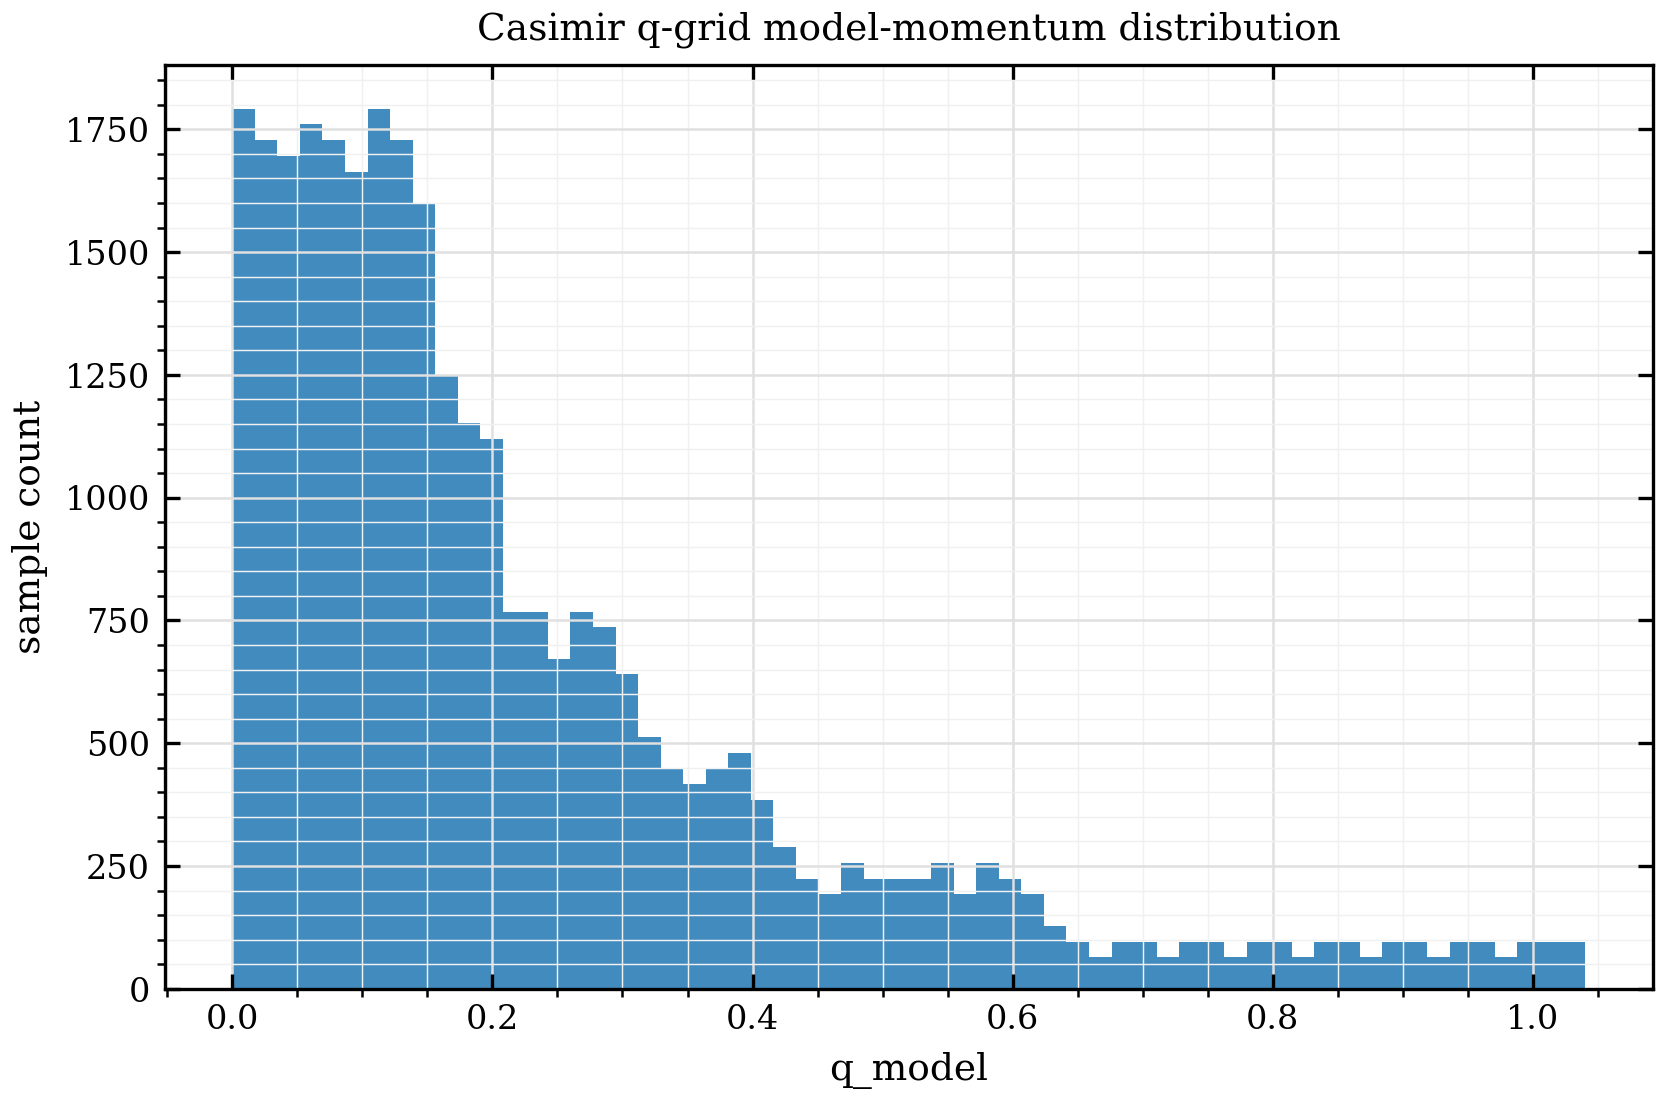
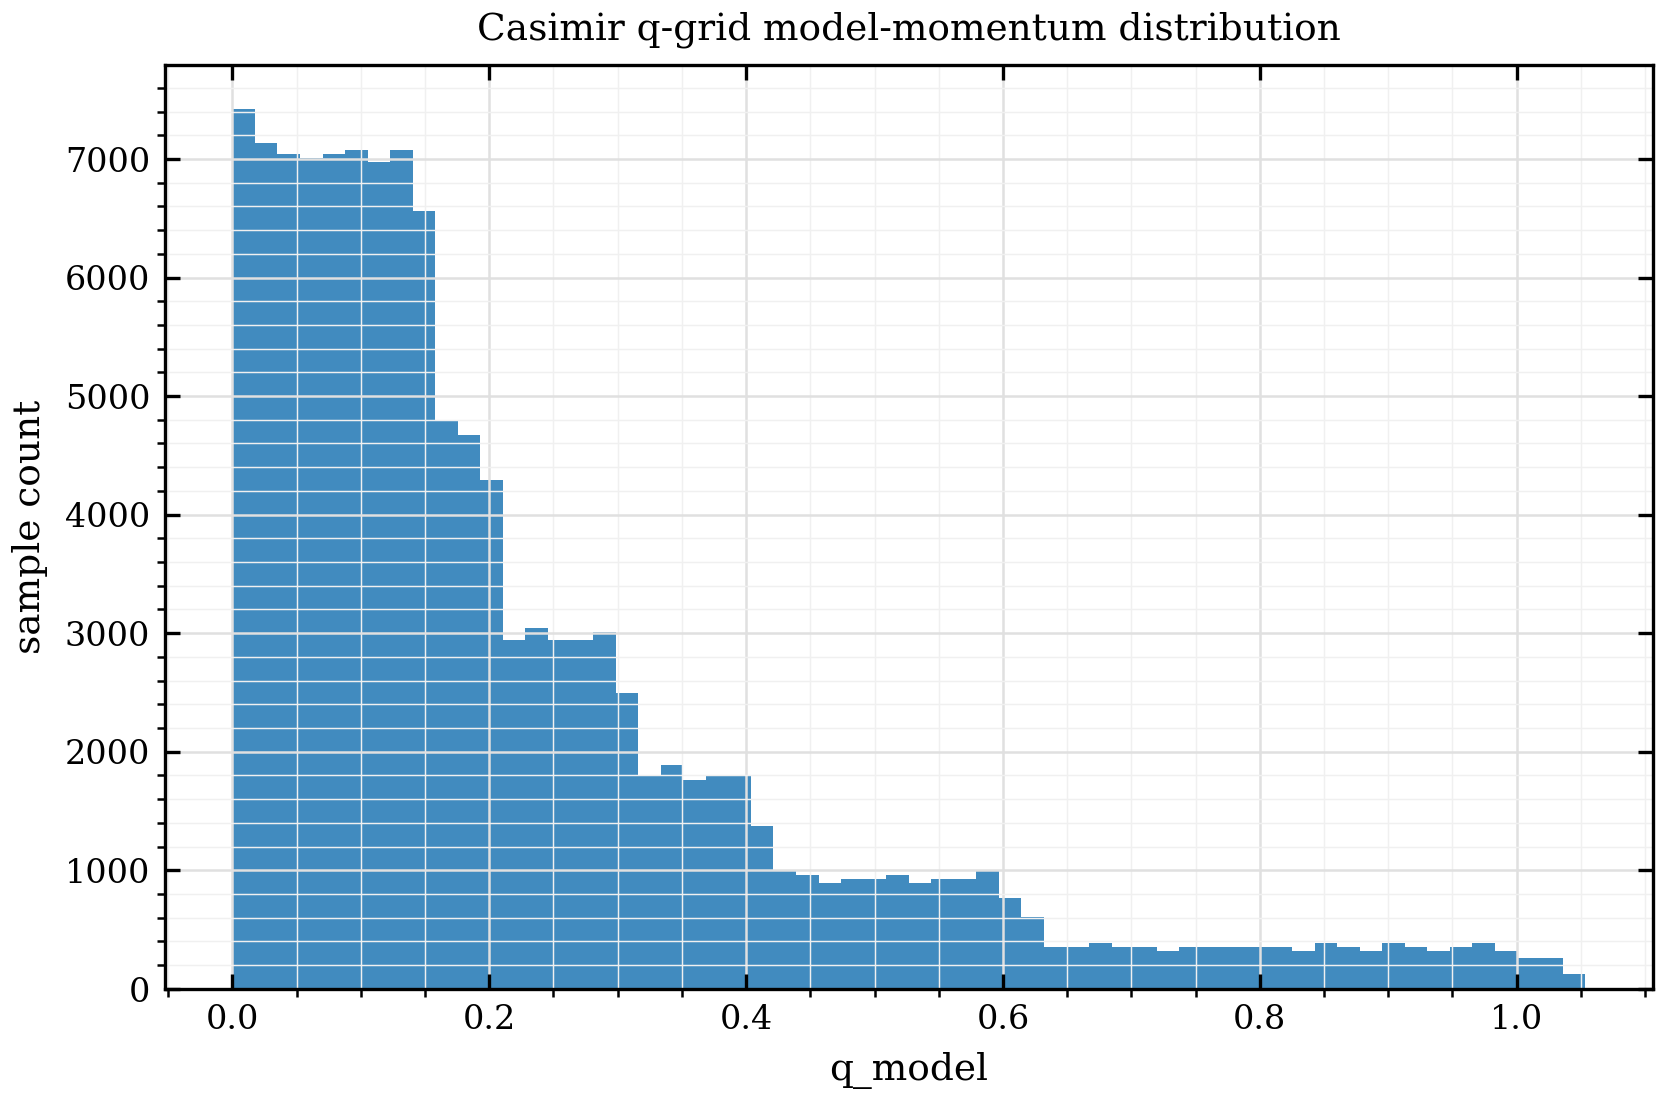
commit

diff --git a/validation/scripts/units/audit_casimir_q_grid_to_model_q.py b/validation/scripts/units/audit_casimir_q_grid_to_model_q.py
@@ -4,7 +4,7 @@
 This script performs only geometry and unit conversion:
 
     q_SI = u / d
-    q_model = a * q_SI
+    q_model = a_parallel * q_SI
     qx_model = q_model * cos(phi)
     qy_model = q_model * sin(phi)
 
@@ -41,18 +41,22 @@ DEFAULT_DISTANCE_LIST = (3e-8, 5e-8, 7.5e-8, 1e-7, 1.5e-7, 2e-7)
 DEFAULT_U_MAX = 80.0
 DEFAULT_DU = 0.5
 DEFAULT_PHI_NUM = 32
-DEFAULT_LATTICE_CONSTANT_M = 3.9e-10
+DEFAULT_IN_PLANE_LATTICE_CONSTANT_M = 3.9e-10
+DEFAULT_IN_PLANE_LATTICE_CONSTANT_LIST_M = (3.75e-10, 3.85e-10, 3.90e-10, 3.95e-10)
 DEFAULT_SMALL_Q_THRESHOLDS = (1e-3, 5e-3, 1e-2, 5e-2, 1e-1)
 
 QUICK_DISTANCE_LIST = (5e-8, 1e-7)
 QUICK_U_MAX = 10.0
 QUICK_DU = 1.0
 QUICK_PHI_NUM = 8
+QUICK_IN_PLANE_LATTICE_CONSTANT_LIST_M = (3.9e-10,)
 
 CSV_COLUMNS = (
     "distance_m",
     "u",
     "phi",
+    "in_plane_lattice_constant_m",
+    "a_parallel_m",
     "lattice_constant_m",
     "q_SI_m_inv",
     "q_model",
@@ -102,30 +106,31 @@ def generate_audit_data(
     u_max: float,
     du: float,
     phi_num: int,
-    lattice_constant_m: float,
+    in_plane_lattice_constant_list_m: list[float],
     small_q_threshold_list: list[float],
 ) -> dict[str, np.ndarray]:
     """Generate threshold-expanded audit rows for the Casimir q-grid."""
 
     _validate_positive_list("distance-list", distance_list)
     _validate_positive_list("small-q-threshold-list", small_q_threshold_list)
-    if lattice_constant_m <= 0.0:
-        raise ValueError("lattice-constant-m must be positive")
+    _validate_positive_list("in-plane-lattice-constant-list-m", in_plane_lattice_constant_list_m)
 
     distances = np.asarray(distance_list, dtype=float)
     u_values = _u_grid(u_max, du)
     phi_values = _phi_grid(phi_num)
+    a_parallel_values = np.asarray(in_plane_lattice_constant_list_m, dtype=float)
     thresholds = np.asarray(small_q_threshold_list, dtype=float)
 
-    distance_mesh, u_mesh, phi_mesh, threshold_mesh = np.meshgrid(
+    distance_mesh, u_mesh, phi_mesh, a_parallel_mesh, threshold_mesh = np.meshgrid(
         distances,
         u_values,
         phi_values,
+        a_parallel_values,
         thresholds,
         indexing="ij",
     )
     q_si = u_mesh / distance_mesh
-    q_model = lattice_constant_m * q_si
+    q_model = a_parallel_mesh * q_si
     qx_model = q_model * np.cos(phi_mesh)
     qy_model = q_model * np.sin(phi_mesh)
 
@@ -133,7 +138,9 @@ def generate_audit_data(
         "distance_m": distance_mesh.ravel(),
         "u": u_mesh.ravel(),
         "phi": phi_mesh.ravel(),
-        "lattice_constant_m": np.full(distance_mesh.size, lattice_constant_m, dtype=float),
+        "in_plane_lattice_constant_m": a_parallel_mesh.ravel(),
+        "a_parallel_m": a_parallel_mesh.ravel(),
+        "lattice_constant_m": a_parallel_mesh.ravel(),
         "q_SI_m_inv": q_si.ravel(),
         "q_model": q_model.ravel(),
         "qx_model": qx_model.ravel(),
@@ -185,16 +192,25 @@ def _plot_outputs(data: dict[str, np.ndarray], figure_dir: Path) -> list[Path]:
 
     fig, ax = plt.subplots(figsize=(6.4, 4.0))
     distances = np.array(sorted(set(float(value) for value in base["distance_m"])))
-    q_max_by_distance = np.array(
-        [np.max(base["q_model"][np.isclose(base["distance_m"], distance)]) for distance in distances]
-    )
-    ax.plot(distances, q_max_by_distance, marker="o")
+    for a_parallel in sorted(set(float(value) for value in base["in_plane_lattice_constant_m"])):
+        q_max_by_distance = np.array(
+            [
+                np.max(
+                    base["q_model"][
+                        np.isclose(base["distance_m"], distance)
+                        & (base["in_plane_lattice_constant_m"] == a_parallel)
+                    ]
+                )
+                for distance in distances
+            ]
+        )
+        ax.plot(distances, q_max_by_distance, marker="o", label=f"a_parallel={a_parallel * 1e10:.2f} A")
     ax.set(
         xlabel="distance d (m)",
         ylabel="max q_model",
         title="Casimir q-grid maximum model momentum",
     )
-    style_publication_axis(ax, legend=False)
+    style_publication_axis(ax)
     path = figure_dir / "q_model_max_vs_distance.png"
     save_publication_figure(fig, path)
     plt.close(fig)
@@ -228,6 +244,23 @@ def _plot_outputs(data: dict[str, np.ndarray], figure_dir: Path) -> list[Path]:
     )
     style_publication_axis(ax)
     path = figure_dir / "q_model_coverage_by_distance.png"
+    save_publication_figure(fig, path)
+    plt.close(fig)
+    paths.append(path)
+
+    fig, ax = plt.subplots(figsize=(6.4, 4.0))
+    a_values = np.array(sorted(set(float(value) for value in base["in_plane_lattice_constant_m"])))
+    q_max_by_a = np.array(
+        [np.max(base["q_model"][base["in_plane_lattice_constant_m"] == a_parallel]) for a_parallel in a_values]
+    )
+    ax.plot(a_values * 1e10, q_max_by_a, marker="o")
+    ax.set(
+        xlabel="a_parallel (Angstrom)",
+        ylabel="max q_model",
+        title="Maximum model momentum vs in-plane conversion length",
+    )
+    style_publication_axis(ax, legend=False)
+    path = figure_dir / "q_model_max_vs_a_parallel.png"
     save_publication_figure(fig, path)
     plt.close(fig)
     paths.append(path)
@@ -287,6 +320,7 @@ def _summary_lines(
     q_min = float(np.min(base["q_model"]))
     q_max = float(np.max(base["q_model"]))
     distances = np.array(sorted(set(float(value) for value in base["distance_m"])))
+    a_parallel_values = np.array(sorted(set(float(value) for value in base["in_plane_lattice_constant_m"])))
     thresholds = sorted(set(float(value) for value in data["small_q_threshold"]))
     stage1_q_list = _stage1_q_list_from_summary()
     stage1_q_max = max(stage1_q_list)
@@ -303,10 +337,14 @@ def _summary_lines(
         "",
         f"run_command = `{command}`",
         f"quick_mode = {bool(args.quick)}",
-        f"lattice_constant_m = {_fmt(args.lattice_constant_m)}",
+        f"in_plane_lattice_constant_list_m = {_list_fmt(list(args.in_plane_lattice_constant_list_m))}",
         (
-            "lattice_constant_m is a configurable assumption for this audit "
-            "and is not a final material parameter."
+            "a_parallel is the in-plane pseudotetragonal / Ni-Ni effective lattice constant "
+            "used to convert q_SI to model-q units."
+        ),
+        (
+            "This is a configurable in-plane conversion length, not a final crystallographic "
+            "refinement parameter."
         ),
         f"distance_list_m = {_list_fmt(list(args.distance_list))}",
         f"u_max = {_fmt(args.u_max)}",
@@ -326,8 +364,27 @@ def _summary_lines(
         f"- q_model_max/pi = {_fmt(q_max / np.pi)}",
         f"- q_model_max/(2pi) = {_fmt(q_max / (2.0 * np.pi))}",
         "",
-        "## q_model_max by distance",
+        "## a_parallel sensitivity",
     ]
+    for a_parallel in a_parallel_values:
+        mask = base["in_plane_lattice_constant_m"] == a_parallel
+        local_max = float(np.max(base["q_model"][mask]))
+        lines.append(
+            f"- a_parallel = {_fmt(a_parallel)} m ({_fmt(a_parallel * 1e10)} A): "
+            f"q_model_max = {_fmt(local_max)}, "
+            f"q_model_max/pi = {_fmt(local_max / np.pi)}, "
+            f"q_model_max/(2pi) = {_fmt(local_max / (2.0 * np.pi))}"
+        )
+    lines.extend(
+        [
+            (
+                "- q_model,max remains O(1), so Stage 1 q<=0.005 still only tests "
+                "small-q limit."
+            ),
+            "",
+            "## q_model_max by distance",
+        ]
+    )
     for distance in distances:
         mask = np.isclose(base["distance_m"], distance)
         local_max = float(np.max(base["q_model"][mask]))
@@ -386,7 +443,25 @@ def build_parser() -> argparse.ArgumentParser:
     parser.add_argument("--u-max", type=float, default=DEFAULT_U_MAX)
     parser.add_argument("--du", type=float, default=DEFAULT_DU)
     parser.add_argument("--phi-num", type=int, default=DEFAULT_PHI_NUM)
-    parser.add_argument("--lattice-constant-m", type=float, default=DEFAULT_LATTICE_CONSTANT_M)
+    parser.add_argument(
+        "--in-plane-lattice-constant-m",
+        type=float,
+        default=None,
+        help="Single a_parallel value in meters. Overrides the default sensitivity list unless the list option is set.",
+    )
+    parser.add_argument(
+        "--lattice-constant-m",
+        type=float,
+        default=None,
+        help="Backward-compatible alias for --in-plane-lattice-constant-m.",
+    )
+    parser.add_argument(
+        "--in-plane-lattice-constant-list-m",
+        nargs="+",
+        type=float,
+        default=None,
+        help="Sensitivity list for a_parallel in meters.",
+    )
     parser.add_argument(
         "--small-q-threshold-list",
         nargs="+",
@@ -400,18 +475,26 @@ def build_parser() -> argparse.ArgumentParser:
 
 def main() -> None:
     args = build_parser().parse_args()
+    if args.in_plane_lattice_constant_list_m is None:
+        if args.in_plane_lattice_constant_m is not None:
+            args.in_plane_lattice_constant_list_m = [args.in_plane_lattice_constant_m]
+        elif args.lattice_constant_m is not None:
+            args.in_plane_lattice_constant_list_m = [args.lattice_constant_m]
+        else:
+            args.in_plane_lattice_constant_list_m = list(DEFAULT_IN_PLANE_LATTICE_CONSTANT_LIST_M)
     if args.quick:
         args.distance_list = list(QUICK_DISTANCE_LIST)
         args.u_max = QUICK_U_MAX
         args.du = QUICK_DU
         args.phi_num = QUICK_PHI_NUM
+        args.in_plane_lattice_constant_list_m = list(QUICK_IN_PLANE_LATTICE_CONSTANT_LIST_M)
 
     data = generate_audit_data(
         distance_list=list(args.distance_list),
         u_max=float(args.u_max),
         du=float(args.du),
         phi_num=int(args.phi_num),
-        lattice_constant_m=float(args.lattice_constant_m),
+        in_plane_lattice_constant_list_m=list(args.in_plane_lattice_constant_list_m),
         small_q_threshold_list=list(args.small_q_threshold_list),
     )
     csv_path, npz_path, figure_dir, summary_path = _output_paths(args.output_prefix)

diff --git a/validation/outputs/units/casimir_q_grid_model_q_audit/casimir_q_grid_model_q_audit_summary.md b/validation/outputs/units/casimir_q_grid_model_q_audit/casimir_q_grid_model_q_audit_summary.md
@@ -7,8 +7,9 @@ No Casimir conclusion is made.
 
 run_command = `python validation/scripts/units/audit_casimir_q_grid_to_model_q.py`
 quick_mode = False
-lattice_constant_m = 3.9e-10
-lattice_constant_m is a configurable assumption for this audit and is not a final material parameter.
+in_plane_lattice_constant_list_m = 3.75e-10 3.85e-10 3.9e-10 3.95e-10
+a_parallel is the in-plane pseudotetragonal / Ni-Ni effective lattice constant used to convert q_SI to model-q units.
+This is a configurable in-plane conversion length, not a final crystallographic refinement parameter.
 distance_list_m = 3e-08 5e-08 7.5e-08 1e-07 1.5e-07 2e-07
 u_max = 80
 du = 0.5
@@ -23,34 +24,41 @@ not_final_casimir_conclusion=True
 
 ## Full grid q_model range
 - q_model_min = 0
-- q_model_max = 1.04
-- q_model_max/pi = 0.331042
-- q_model_max/(2pi) = 0.165521
+- q_model_max = 1.05333
+- q_model_max/pi = 0.335286
+- q_model_max/(2pi) = 0.167643
+
+## a_parallel sensitivity
+- a_parallel = 3.75e-10 m (3.75 A): q_model_max = 1, q_model_max/pi = 0.31831, q_model_max/(2pi) = 0.159155
+- a_parallel = 3.85e-10 m (3.85 A): q_model_max = 1.02667, q_model_max/pi = 0.326798, q_model_max/(2pi) = 0.163399
+- a_parallel = 3.9e-10 m (3.9 A): q_model_max = 1.04, q_model_max/pi = 0.331042, q_model_max/(2pi) = 0.165521
+- a_parallel = 3.95e-10 m (3.95 A): q_model_max = 1.05333, q_model_max/pi = 0.335286, q_model_max/(2pi) = 0.167643
+- q_model,max remains O(1), so Stage 1 q<=0.005 still only tests small-q limit.
 
 ## q_model_max by distance
-- d = 3e-08 m: q_model_max = 1.04, q_model_max/pi = 0.331042, q_model_max/(2pi) = 0.165521
-- d = 5e-08 m: q_model_max = 0.624, q_model_max/pi = 0.198625, q_model_max/(2pi) = 0.0993127
-- d = 7.5e-08 m: q_model_max = 0.416, q_model_max/pi = 0.132417, q_model_max/(2pi) = 0.0662085
-- d = 1e-07 m: q_model_max = 0.312, q_model_max/pi = 0.0993127, q_model_max/(2pi) = 0.0496563
-- d = 1.5e-07 m: q_model_max = 0.208, q_model_max/pi = 0.0662085, q_model_max/(2pi) = 0.0331042
-- d = 2e-07 m: q_model_max = 0.156, q_model_max/pi = 0.0496563, q_model_max/(2pi) = 0.0248282
+- d = 3e-08 m: q_model_max = 1.05333, q_model_max/pi = 0.335286, q_model_max/(2pi) = 0.167643
+- d = 5e-08 m: q_model_max = 0.632, q_model_max/pi = 0.201172, q_model_max/(2pi) = 0.100586
+- d = 7.5e-08 m: q_model_max = 0.421333, q_model_max/pi = 0.134115, q_model_max/(2pi) = 0.0670573
+- d = 1e-07 m: q_model_max = 0.316, q_model_max/pi = 0.100586, q_model_max/(2pi) = 0.050293
+- d = 1.5e-07 m: q_model_max = 0.210667, q_model_max/pi = 0.0670573, q_model_max/(2pi) = 0.0335286
+- d = 2e-07 m: q_model_max = 0.158, q_model_max/pi = 0.050293, q_model_max/(2pi) = 0.0251465
 
 ## Small-q coverage
-- threshold q <= 0.001: 0.724638% (224/30912 sampled points)
-- threshold q <= 0.005: 1.863354% (576/30912 sampled points)
-- threshold q <= 0.01: 3.519669% (1088/30912 sampled points)
-- threshold q <= 0.05: 16.356108% (5056/30912 sampled points)
-- threshold q <= 0.1: 32.401656% (10016/30912 sampled points)
+- threshold q <= 0.001: 0.724638% (896/123648 sampled points)
+- threshold q <= 0.005: 1.915114% (2368/123648 sampled points)
+- threshold q <= 0.01: 3.571429% (4416/123648 sampled points)
+- threshold q <= 0.05: 16.485507% (20384/123648 sampled points)
+- threshold q <= 0.1: 32.712215% (40448/123648 sampled points)
 
 ## Stage 1 coverage check
 - Stage 1 sampled q_model list found in repository: 0 0.0001 0.0002 0.0005 0.001 0.002 0.005
 - Stage 1 q_model_max = 0.005
-- Current audit q_model_max = 1.04
+- Current audit q_model_max = 1.05333
 - Stage 1 sampled q range does not cover the current Casimir-relevant q_model range; it only tests the small-q limit.
 
 ## Stage 3 recommended q-list
 - small-q regression list: 0 0.0001 0.0002 0.0005 0.001 0.002 0.005 0.01
-- Casimir-relevant q list: 0 0.001 0.002 0.005 0.01 0.02 0.05 0.1 0.2 0.5 0.75 1 1.04
+- Casimir-relevant q list: 0 0.001 0.002 0.005 0.01 0.02 0.05 0.1 0.2 0.5 0.75 1 1.1
 - BZ stress list: 0.392699 0.785398 1.5708 3.14159 6.28319
 
 The BZ stress list is for numerical stress testing only; it is not a statement that the audited local Casimir grid reaches those momenta.
@@ -61,3 +69,4 @@ The BZ stress list is for numerical stress testing only; it is not a statement t
 - figure: /home/liubx25/Ni_Research/Projects/Casimir_Torque_of_LNO327/validation/outputs/units/casimir_q_grid_model_q_audit/figures/q_model_max_vs_distance.png
 - figure: /home/liubx25/Ni_Research/Projects/Casimir_Torque_of_LNO327/validation/outputs/units/casimir_q_grid_model_q_audit/figures/q_model_histogram.png
 - figure: /home/liubx25/Ni_Research/Projects/Casimir_Torque_of_LNO327/validation/outputs/units/casimir_q_grid_model_q_audit/figures/q_model_coverage_by_distance.png
+- figure: /home/liubx25/Ni_Research/Projects/Casimir_Torque_of_LNO327/validation/outputs/units/casimir_q_grid_model_q_audit/figures/q_model_max_vs_a_parallel.png

diff --git a/docs/notes/finite_q_response_plan_zh.md b/docs/notes/finite_q_response_plan_zh.md
@@ -74,11 +74,18 @@ $$
 把 Casimir 积分中的无量纲变量 $u$ 与层间距离 $d$ 映射到模型动量：
 
 $$
-q_{\mathrm{model}} = a \frac{u}{d}.
+q_{\mathrm{model}} = a_{\parallel} \frac{u}{d}.
 $$
 
-这里 $a$ 是模型晶格常数单位，$d$ 必须使用同一长度单位。Stage 2 只做单位和采样范围审计，
-不声明 finite-q Casimir 结论。
+这里 $a_{\parallel}$ 是面内赝四方 / Ni-Ni 有效晶格常数，用作从 SI 动量到 model-q
+单位的面内换算长度；不要把它写成笼统 conventional crystallographic lattice constant。
+$d$ 必须使用同一长度单位。Stage 2 只做单位和采样范围审计，不计算 response，
+不产生 finite-q conductivity，也不声明 finite-q Casimir 结论。
+
+Stage 2.5 在同一 audit 中加入 $a_{\parallel}$ sensitivity，例如
+$a_{\parallel}=3.75, 3.85, 3.90, 3.95$ Angstrom，检查 Casimir q-grid 可访问的
+$q_{\mathrm{model,max}}$ 对面内换算长度的敏感性。该敏感性仍然只是单位/采样审计，
+不接入 response tensor、reflection matrix 或 Casimir integral。
 
 ### 阶段 3：BdG finite-q current-current kernel
 
@@ -167,4 +174,5 @@ validation/outputs/response/normal_finite_q_kernel_convergence/
 
 Stage 1 当前只需要继续做 quick/smoke 级别检查和代码一致性维护。下一项实质开发应进入
 Stage 2：审计 Casimir q-grid 与 model-q 的单位映射
-$q_{\mathrm{model}} = a u / d$，并给出可复现的 sampling range 报告。
+$q_{\mathrm{model}} = a_{\parallel} u / d$，并给出可复现的 sampling range 和
+$a_{\parallel}$ sensitivity 报告。